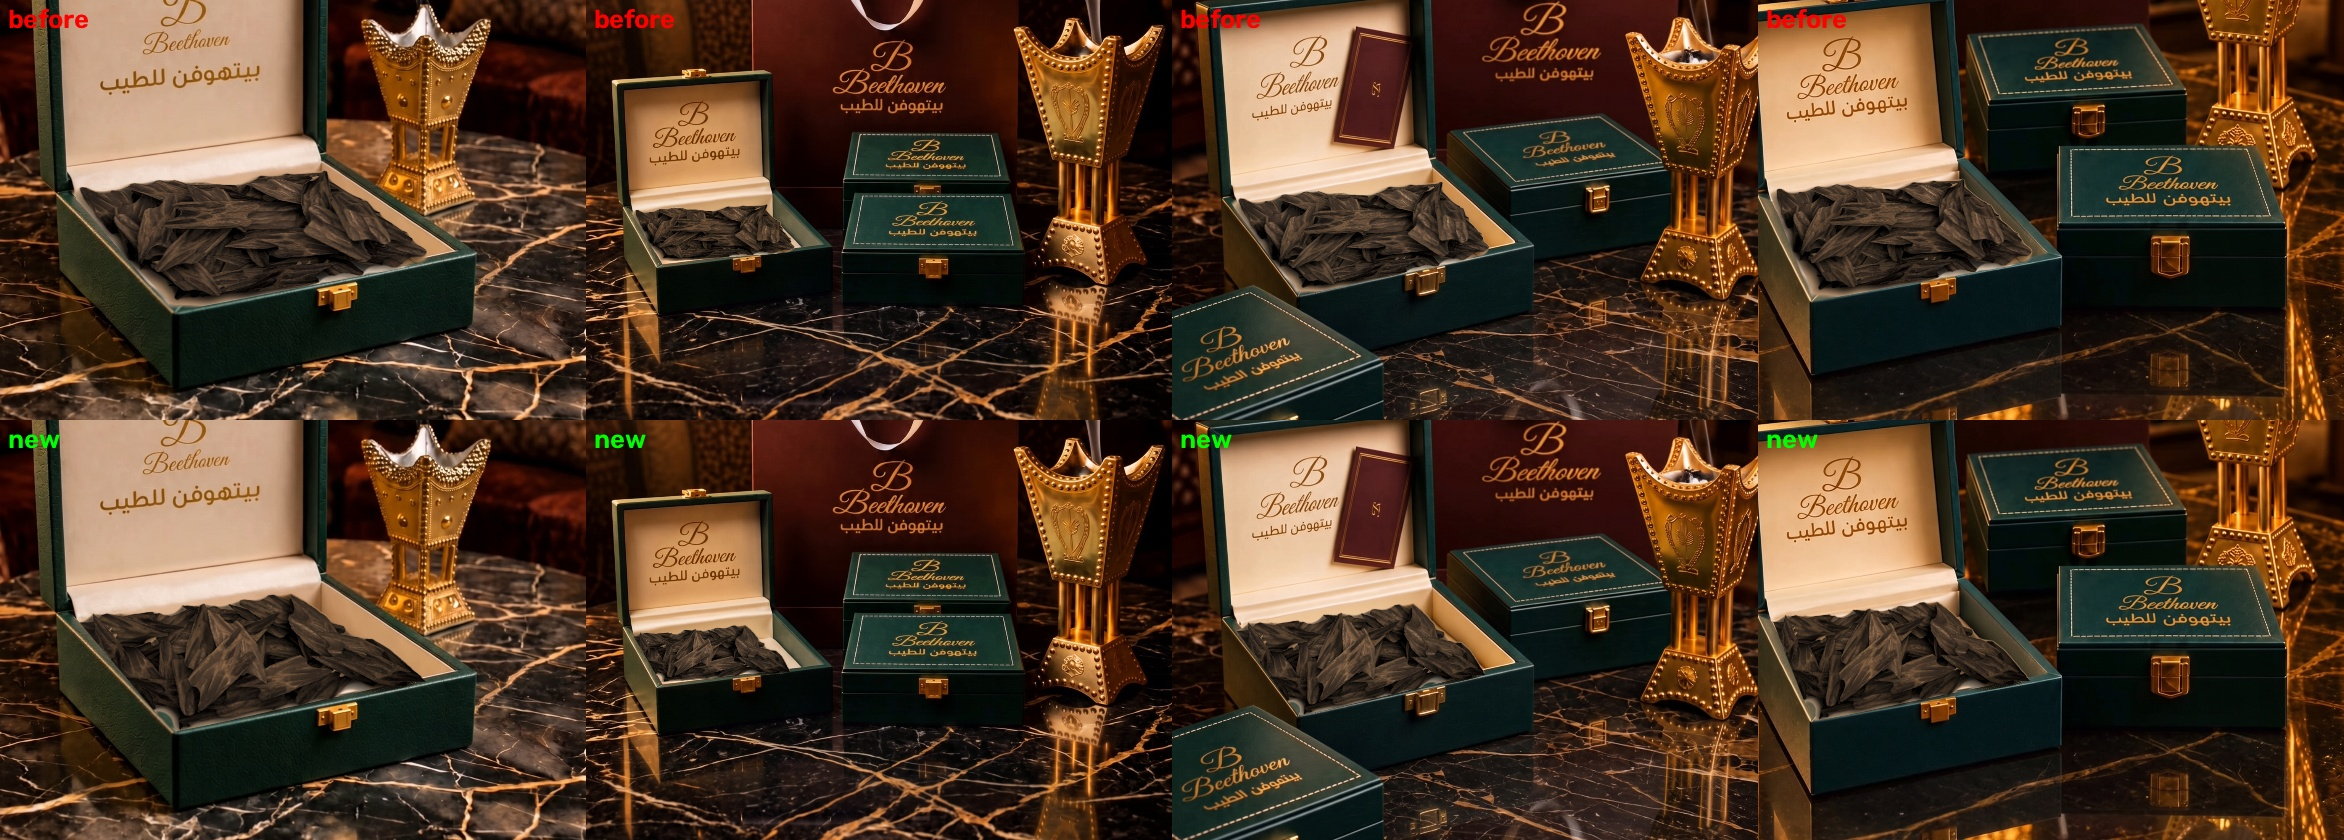
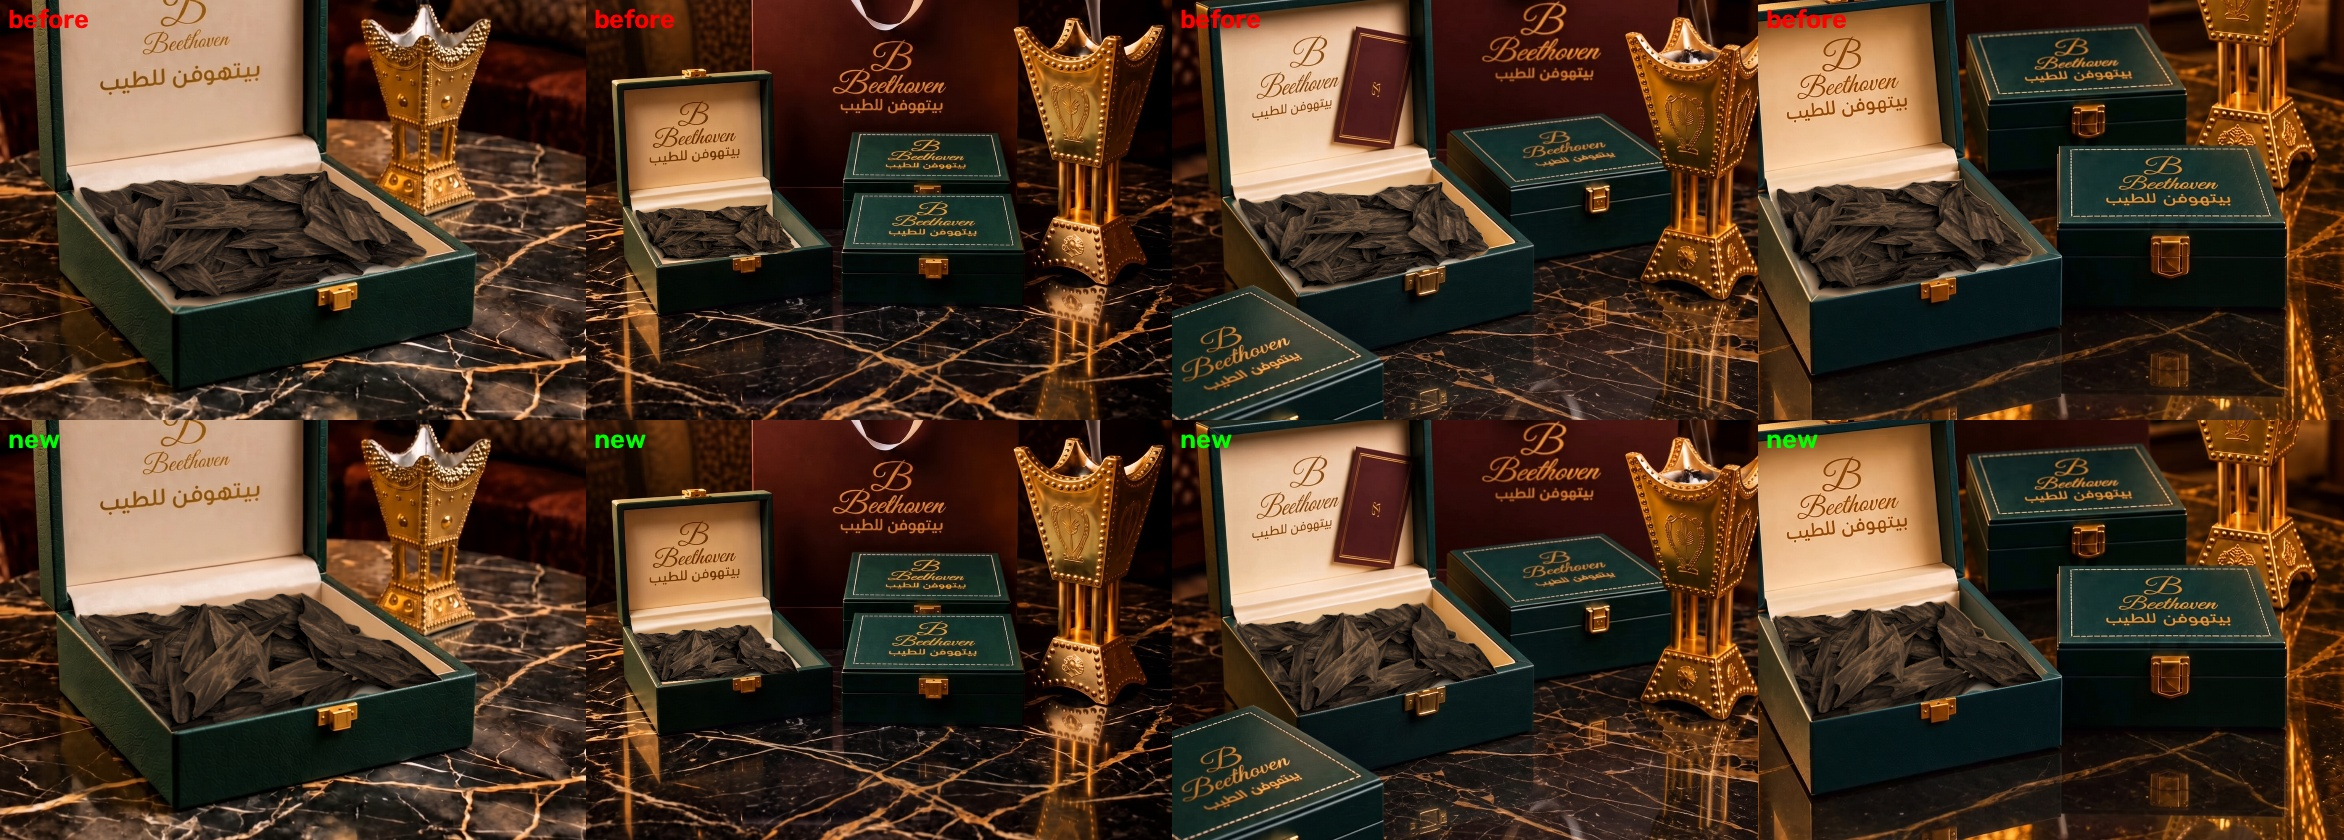
Box library: tuck heap under front/side walls (no bare satin patch in front corners); updated ad-2 stills
Claude-Session: https://claude.ai/code/session_01TQdgL8psWQ5B4XyTxv2k9v

diff --git a/.claude/skills/product-ad-fidelity/scripts/box_masters.py b/.claude/skills/product-ad-fidelity/scripts/box_masters.py
@@ -20,6 +20,7 @@ HERE = os.path.dirname(os.path.abspath(__file__))
 ap = argparse.ArgumentParser(); ap.add_argument('cmd'); ap.add_argument('args', nargs='*')
 ap.add_argument('--lib', default=os.path.join(HERE, '..', 'assets', 'box_masters'))
 ap.add_argument('--master'); ap.add_argument('--relight', type=float, default=0.5); ap.add_argument('--edge', type=int, default=5)
+ap.add_argument('--tuck', type=float, default=0.12, help='how far the heap reaches under the front/side walls')
 ap.add_argument('--back', type=float, default=0.1, help='empty band left at the back of the new box (fraction of depth)')
 A = ap.parse_args(); os.makedirs(A.lib, exist_ok=True); META = os.path.join(A.lib, 'masters.json')
 meta = json.load(open(META)) if os.path.exists(META) else {}
@@ -78,6 +79,10 @@ elif A.cmd == 'place':
     print('masters by angle match:', ', '.join(ranked), '-> using', name)
     src = cv2.imread(os.path.join(A.lib, name + '.png'), cv2.IMREAD_UNCHANGED).astype(np.float32)
     tq = dq.copy(); tq[0] = dq[0] + (dq[3] - dq[0]) * A.back; tq[1] = dq[1] + (dq[2] - dq[1]) * A.back
+    # tuck the heap slightly under the front and side walls (clipped below), so no bare satin / cut-off
+    # piece shows in the front corners (client: "something stuck on / sticking out" at the front-left corner)
+    c = tq.mean(0); tq = c + (tq - c) * (1 + A.tuck)   # grow front + sides; back corners are reset below
+    tq[0] = dq[0] + (dq[3] - dq[0]) * A.back + (dq[0] - dq[1]) * A.tuck / 2; tq[1] = dq[1] + (dq[2] - dq[1]) * A.back + (dq[1] - dq[0]) * A.tuck / 2
     Hm = cv2.getPerspectiveTransform(np.array(m.get('heap_quad', m['quad']), np.float32), tq)   # heap footprint -> new opening
     wF = cv2.warpPerspective(src[..., :3], Hm, (W, H), flags=cv2.INTER_CUBIC)
     wa = cv2.warpPerspective(src[..., 3] / 255, Hm, (W, H), flags=cv2.INTER_LINEAR)
